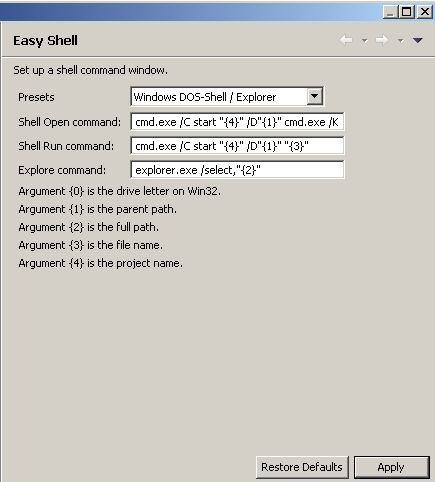
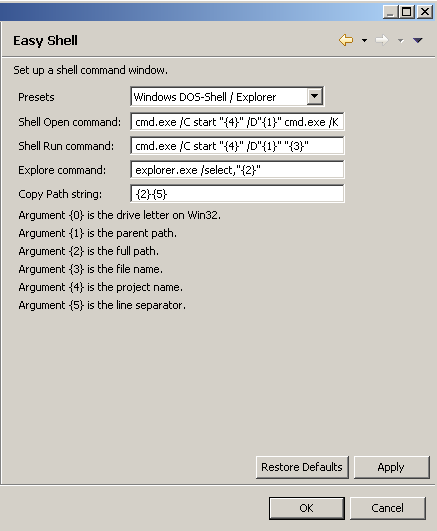
V1.3.2
git-svn-id: https://pluginbox.svn.sourceforge.net/svnroot/pluginbox/trunk@42 1fff1bfa-553f-4a8f-8d46-2a568f5677b2

diff --git a/pluginbox-updatesite/plugins.html b/pluginbox-updatesite/plugins.html
@@ -51,7 +51,7 @@ width="88" height="31"  border="0" alt="SourceForge logo" class="topbarlink" sty
   <tbody>
     <tr valign="top">
       <td>EasyShell</td>
-      <td>This plugin allows to open a shell window or file manager from the popup menu in the navigation tree or editor view. The current directory of the opened shell is the directory which was selected with the popup menu. Additionally it is possible to run selected file in the shell. Custom shell command configurable in preferences page. Supported platforms:
+      <td>This plugin allows to open a shell window or file manager from the popup menu in the navigation tree or editor view. The current directory of the opened shell is the directory which was selected with the popup menu. Additionally it is possible to run selected file in the shell and copy file or directory path. Multiple selections are also supported. Custom commands are configurable in preferences page. Supported platforms:
       <ul>
       <li>Windows DOS-Shell / Explorer</li>
       <li>PowerShell / Explorer</li>
